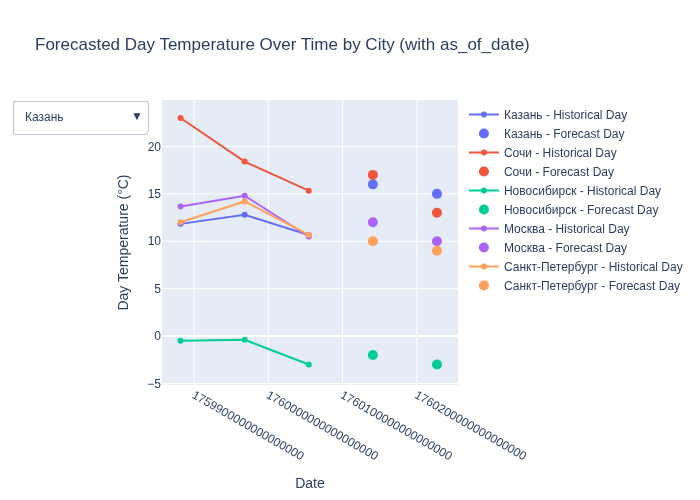
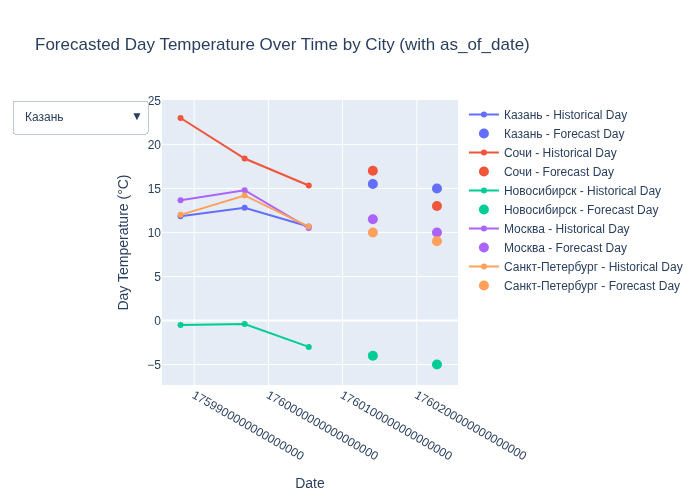
Automated update: weather data, models, and reports

diff --git a/README.md b/README.md
@@ -30,20 +30,20 @@
 #### Рейтинг туризма по городам
 | city_name       |   avg_comfort_index | recommended_activity   | tourist_season_match   | tourism_season   | tour_recommendation       | as_of_date          |
 |:----------------|--------------------:|:-----------------------|:-----------------------|:-----------------|:--------------------------|:--------------------|
-| Новосибирск     |               -4.76 | домашний отдых         | нет                    | Июнь-Август      | домашний отдых вне сезона | 2025-10-11 11:23:00 |
-| Москва          |               -0.23 | домашний отдых         | да                     | Круглогодично    | домашний отдых в сезон    | 2025-10-11 11:23:00 |
-| Санкт-Петербург |                3.58 | домашний отдых         | нет                    | Май-Сентябрь     | домашний отдых вне сезона | 2025-10-11 11:23:00 |
-| Сочи            |                4.54 | домашний отдых         | да                     | Май-Октябрь      | домашний отдых в сезон    | 2025-10-11 11:23:00 |
-| Казань          |                6.34 | домашний отдых         | нет                    | Май-Сентябрь     | домашний отдых вне сезона | 2025-10-11 11:23:00 |
+| Новосибирск     |               -4.78 | домашний отдых         | нет                    | Июнь-Август      | домашний отдых вне сезона | 2025-10-11 13:03:00 |
+| Москва          |               -0.13 | домашний отдых         | да                     | Круглогодично    | домашний отдых в сезон    | 2025-10-11 13:03:00 |
+| Санкт-Петербург |                3.52 | домашний отдых         | нет                    | Май-Сентябрь     | домашний отдых вне сезона | 2025-10-11 13:03:00 |
+| Сочи            |                4.63 | домашний отдых         | да                     | Май-Октябрь      | домашний отдых в сезон    | 2025-10-11 13:03:00 |
+| Казань          |                6.38 | домашний отдых         | нет                    | Май-Сентябрь     | домашний отдых вне сезона | 2025-10-11 13:03:00 |
 
 #### Сводка по федеральным округам
 | federal_district   |   avg_temperature |   comfortable_cities_count | general_recommendation   | as_of_date          |
 |:-------------------|------------------:|---------------------------:|:-------------------------|:--------------------|
-| Приволжский        |             11.47 |                          0 | Лучше остаться дома      | 2025-10-11 11:23:00 |
-| Центральный        |             12.07 |                          0 | Лучше остаться дома      | 2025-10-11 11:23:00 |
-| Сибирский          |             -0.79 |                          0 | Лучше остаться дома      | 2025-10-11 11:23:00 |
-| Северо-Западный    |             10.66 |                          0 | Лучше остаться дома      | 2025-10-11 11:23:00 |
-| Южный              |             18.62 |                          0 | Лучше остаться дома      | 2025-10-11 11:23:00 |
+| Приволжский        |             11.53 |                          0 | Лучше остаться дома      | 2025-10-11 13:03:00 |
+| Центральный        |             12.05 |                          0 | Лучше остаться дома      | 2025-10-11 13:03:00 |
+| Сибирский          |             -0.88 |                          0 | Лучше остаться дома      | 2025-10-11 13:03:00 |
+| Северо-Западный    |             10.64 |                          0 | Лучше остаться дома      | 2025-10-11 13:03:00 |
+| Южный              |             18.59 |                          0 | Лучше остаться дома      | 2025-10-11 13:03:00 |
 
 #### Рекомендации для путешествий
 Рекомендации на 2025-10-11: top_3_cities: nan, stay_home_cities: Казань, Москва, Новосибирск, Санкт-Петербург, Сочи, additional_notes: Казань: Плохая видимость из-за тумана/облачности; Москва: Плохая видимость из-за тумана/облачности; Новосибирск: Взять теплую одежду; Очень холодно, риск обморожения
@@ -51,11 +51,11 @@
 #### Прогнозы температуры
 | city            | forecast_date   |   predicted_temp_day |   predicted_temp_night | model_type       | as_of_date          |
 |:----------------|:----------------|---------------------:|-----------------------:|:-----------------|:--------------------|
-| Казань          | 2025-10-12      |                   15 |                     14 | LinearRegression | 2025-10-11 11:23:54 |
-| Москва          | 2025-10-12      |                   10 |                     10 | LinearRegression | 2025-10-11 11:23:54 |
-| Новосибирск     | 2025-10-12      |                   -3 |                     -2 | LinearRegression | 2025-10-11 11:23:54 |
-| Санкт-Петербург | 2025-10-12      |                    9 |                      8 | LinearRegression | 2025-10-11 11:23:54 |
-| Сочи            | 2025-10-12      |                   13 |                     13 | LinearRegression | 2025-10-11 11:23:54 |
+| Казань          | 2025-10-12      |                   15 |                     14 | LinearRegression | 2025-10-11 13:04:04 |
+| Москва          | 2025-10-12      |                   10 |                     10 | LinearRegression | 2025-10-11 13:04:04 |
+| Новосибирск     | 2025-10-12      |                   -5 |                     -2 | LinearRegression | 2025-10-11 13:04:04 |
+| Санкт-Петербург | 2025-10-12      |                    9 |                      8 | LinearRegression | 2025-10-11 13:04:04 |
+| Сочи            | 2025-10-12      |                   13 |                     13 | LinearRegression | 2025-10-11 13:04:04 |
 
 
 <!-- WEATHER DATA END -->
